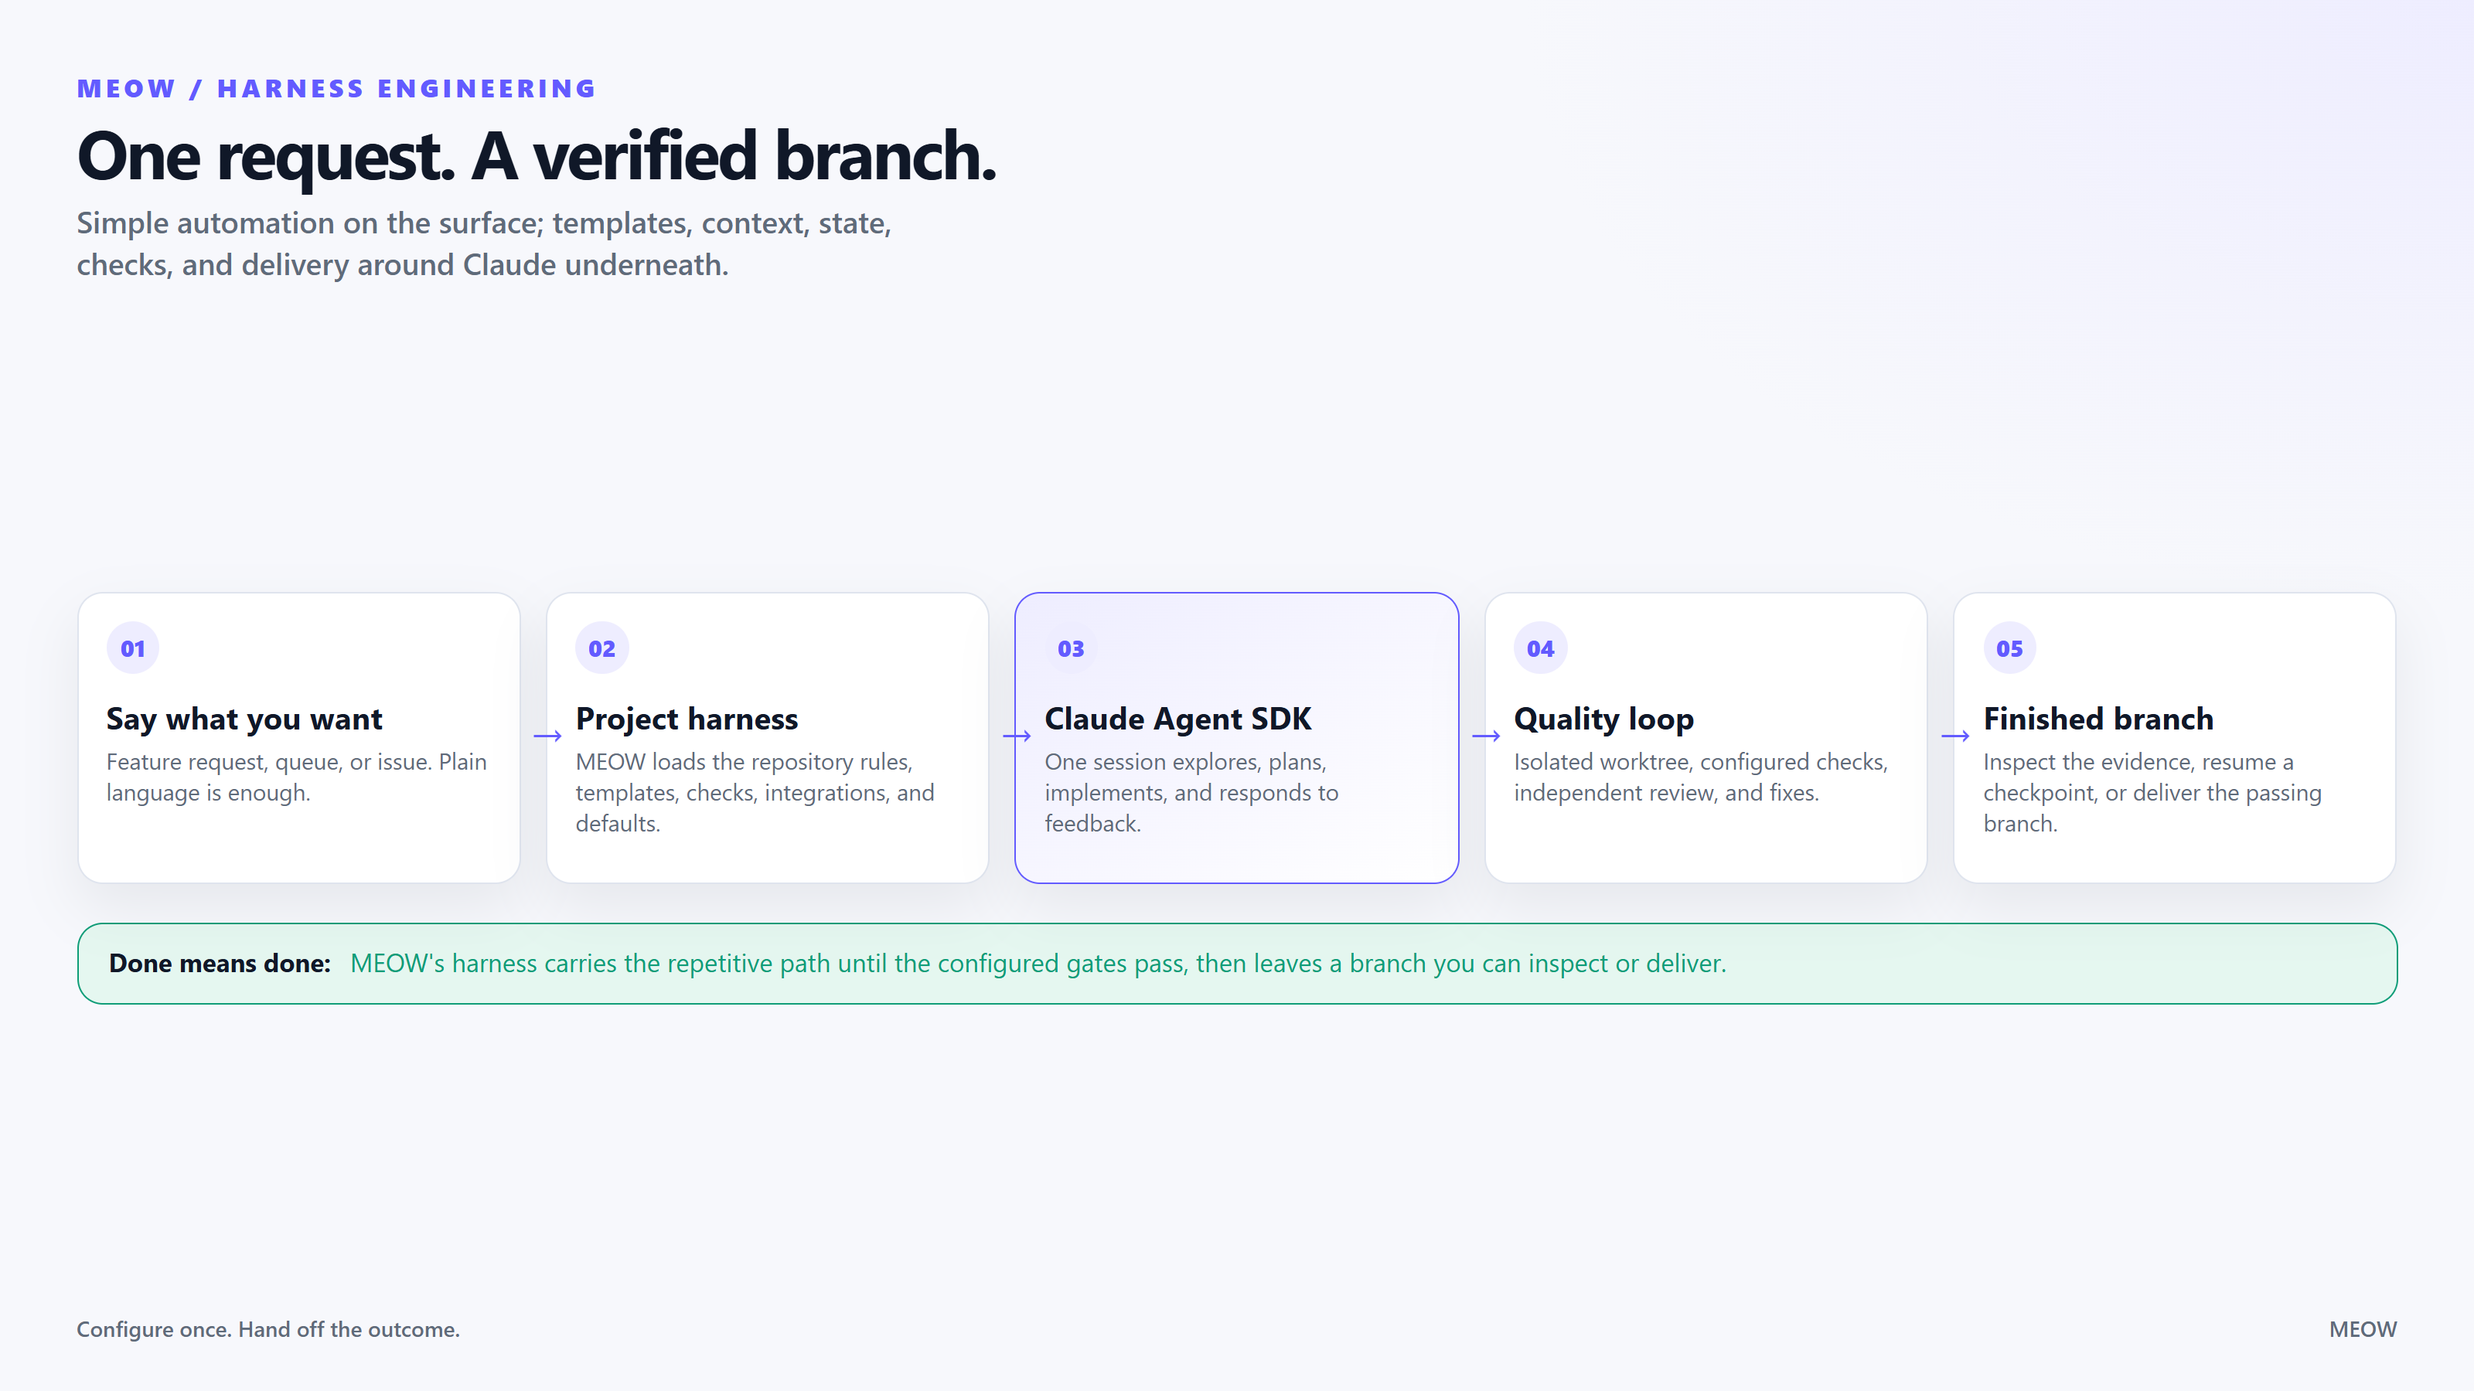
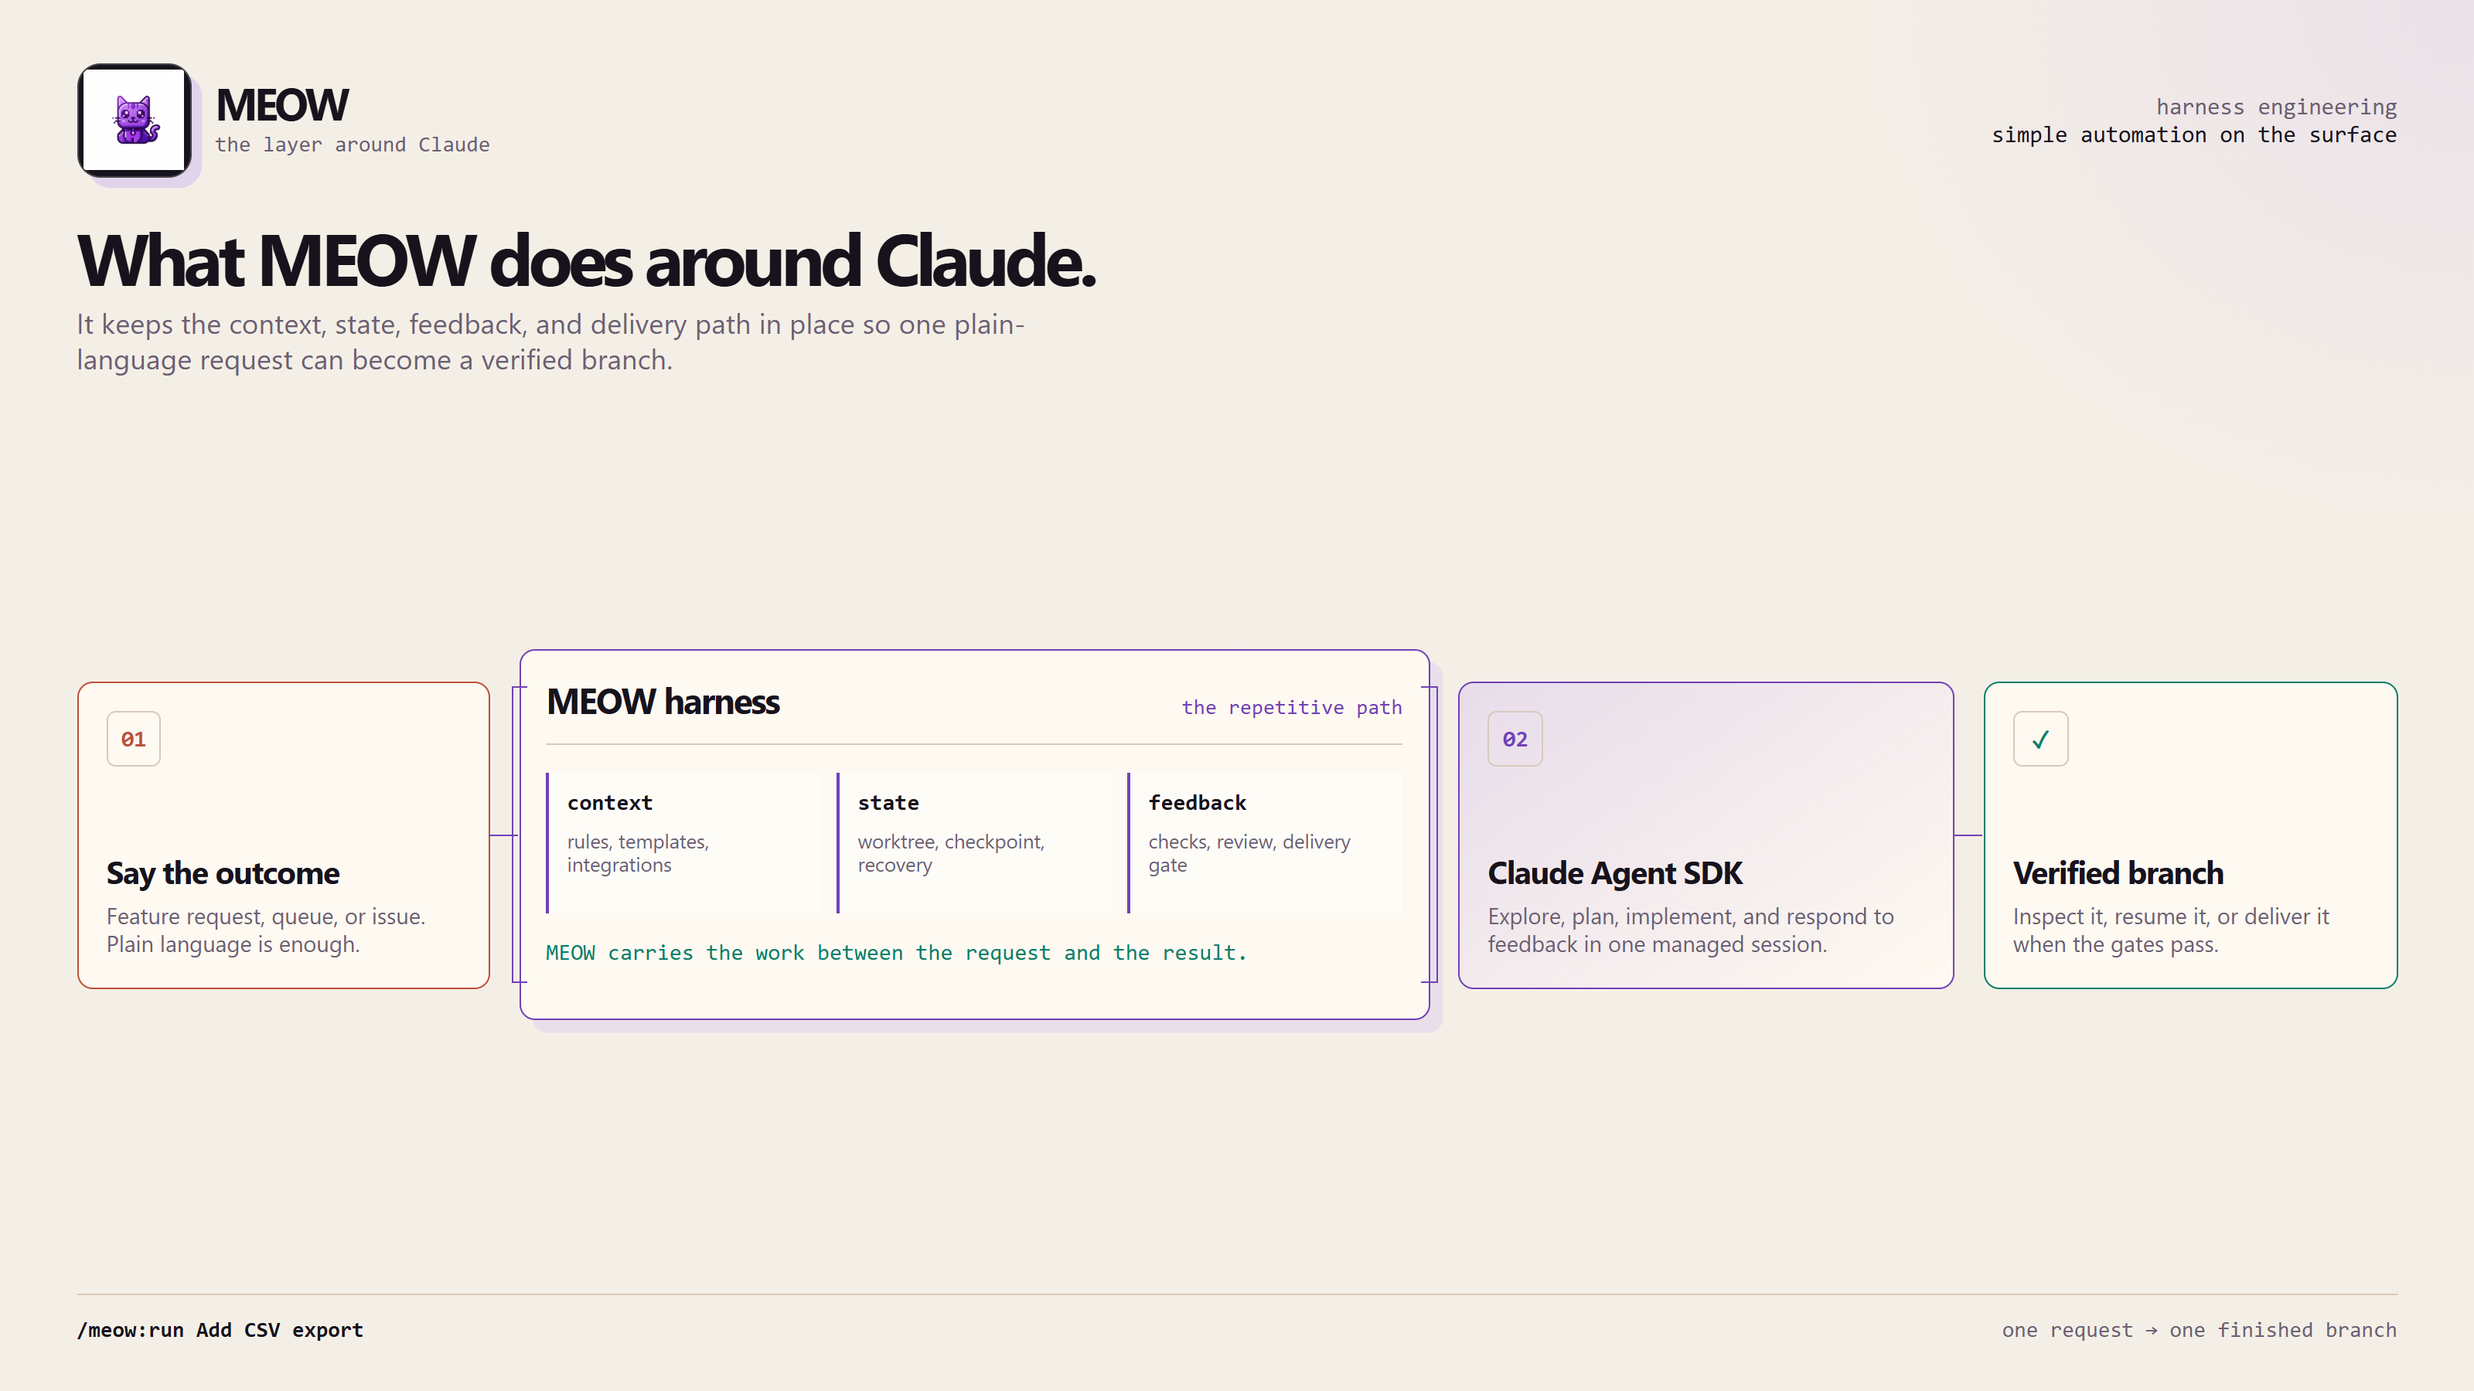
docs: refresh MEOW harness visuals

diff --git a/visualizations/meow-workflow/index.html b/visualizations/meow-workflow/index.html
@@ -5,179 +5,73 @@
   <meta name="viewport" content="width=device-width, initial-scale=1" />
   <title>MEOW harness engineering</title>
   <style>
-    :root {
-      --bg: #f7f8fc;
-      --card: #ffffff;
-      --ink: #101828;
-      --muted: #5f6b7a;
-      --line: #dfe4ee;
-      --accent: #635bff;
-      --accent-soft: #eeedff;
-      --green: #0f9d78;
-      --green-soft: #e5f7f0;
-      --shadow: 0 16px 36px rgba(31, 41, 55, .08);
-    }
-    :root[data-theme="dark"] {
-      --bg: #0b1020;
-      --card: #151d31;
-      --ink: #f2f4fb;
-      --muted: #aab4c7;
-      --line: #2b3853;
-      --accent: #9a93ff;
-      --accent-soft: #28264f;
-      --green: #4fd1a5;
-      --green-soft: #173e38;
-      --shadow: 0 18px 40px rgba(0, 0, 0, .25);
-    }
+    :root { --ink: #111016; --panel: #1c1824; --panel-2: #26202f; --paper: #f4efe6; --muted: #b9afc4; --violet: #b088ff; --mint: #79e0c8; --coral: #ff896f; --line: #463950; }
+    :root[data-theme="light"] { --ink: #f4efe6; --panel: #fffaf1; --panel-2: #eee5d8; --paper: #17131d; --muted: #6b6074; --violet: #7241b7; --mint: #087f6a; --coral: #bd4f3c; --line: #d8cabb; }
     * { box-sizing: border-box; }
     html, body { width: 100%; height: 100%; margin: 0; overflow: hidden; }
-    body {
-      background: var(--bg);
-      color: var(--ink);
-      font-family: ui-sans-serif, system-ui, -apple-system, "Segoe UI", sans-serif;
-      -webkit-font-smoothing: antialiased;
-    }
-    .stage {
-      width: 100vw;
-      height: 100vh;
-      padding: 5cqmin 5.5cqmin 3.5cqmin;
-      display: flex;
-      flex-direction: column;
-      gap: 3cqmin;
-      container-type: size;
-      background: radial-gradient(110cqmin 70cqmin at 100% 0%, var(--accent-soft), transparent 62%), var(--bg);
-    }
-    .eyebrow {
-      color: var(--accent);
-      font-size: 2cqmin;
-      font-weight: 800;
-      letter-spacing: .16em;
-      text-transform: uppercase;
-    }
-    h1 {
-      margin: 1cqmin 0 0;
-      font-size: 5.4cqmin;
-      line-height: 1.02;
-      letter-spacing: -.04em;
-    }
-    .lede {
-      max-width: 70cqmin;
-      margin: 1.2cqmin 0 0;
-      color: var(--muted);
-      font-size: 2.35cqmin;
-      line-height: 1.35;
-      font-weight: 500;
-    }
-    .workflow {
-      min-height: 0;
-      flex: 1;
-      display: flex;
-      flex-direction: column;
-      justify-content: center;
-      gap: 3cqmin;
-    }
-    .flow {
-      display: grid;
-      grid-template-columns: repeat(5, 1fr);
-      align-items: stretch;
-      gap: 2cqmin;
-    }
-    .step {
-      position: relative;
-      min-height: 23cqmin;
-      padding: 2.2cqmin;
-      border: 1px solid var(--line);
-      border-radius: 2cqmin;
-      background: var(--card);
-      box-shadow: var(--shadow);
-    }
-    .step:not(:last-child)::after {
-      content: "→";
-      position: absolute;
-      z-index: 2;
-      right: -2.2cqmin;
-      top: 50%;
-      transform: translate(50%, -58%);
-      color: var(--accent);
-      font-size: 3.2cqmin;
-      font-weight: 800;
-    }
-    .number {
-      display: inline-flex;
-      align-items: center;
-      justify-content: center;
-      width: 4.2cqmin;
-      height: 4.2cqmin;
-      border-radius: 50%;
-      color: var(--accent);
-      background: var(--accent-soft);
-      font-size: 1.8cqmin;
-      font-weight: 800;
-    }
-    .step h2 { margin: 2cqmin 0 1cqmin; font-size: 2.45cqmin; line-height: 1.05; }
-    .step p { margin: 0; color: var(--muted); font-size: 1.8cqmin; line-height: 1.35; }
-    .step.agent { border-color: var(--accent); background: linear-gradient(145deg, var(--accent-soft), var(--card)); }
-    .quality {
-      display: flex;
-      align-items: center;
-      gap: 1.5cqmin;
-      padding: 1.8cqmin 2.4cqmin;
-      border: 1px solid var(--green);
-      border-radius: 2cqmin;
-      color: var(--green);
-      background: var(--green-soft);
-      font-size: 2cqmin;
-      line-height: 1.3;
-    }
-    .quality strong { color: var(--ink); }
-    footer {
-      display: flex;
-      justify-content: space-between;
-      color: var(--muted);
-      font-size: 1.7cqmin;
-      font-weight: 600;
-    }
+    body { color: var(--paper); background: var(--ink); font-family: "Segoe UI", ui-sans-serif, system-ui, sans-serif; -webkit-font-smoothing: antialiased; }
+    .stage { width: 100vw; height: 100vh; padding: 4.5cqmin 5.5cqmin 3.4cqmin; display: flex; flex-direction: column; gap: 3.2cqmin; container-type: size; background: linear-gradient(90deg, transparent 0 49.9%, rgba(255,255,255,.045) 50%, transparent 50.1%), radial-gradient(70cqmin 60cqmin at 100% 0%, rgba(176,136,255,.13), transparent 70%), var(--ink); }
+    .top { display: flex; align-items: center; justify-content: space-between; gap: 4cqmin; }
+    .brand { display: flex; align-items: center; gap: 1.8cqmin; }
+    .logo-frame { width: 9cqmin; height: 9cqmin; padding: .45cqmin; overflow: hidden; border: 1px solid rgba(255,255,255,.2); border-radius: 1.8cqmin; background: var(--paper); box-shadow: .8cqmin .8cqmin 0 rgba(176,136,255,.27); }
+    .logo-frame img { display: block; width: 100%; height: 100%; object-fit: contain; }
+    .brand strong { display: block; color: var(--paper); font-size: 3.5cqmin; line-height: .9; letter-spacing: -.08em; }
+    .brand span { display: block; margin-top: .7cqmin; color: var(--muted); font: 1.7cqmin ui-monospace, SFMono-Regular, Consolas, monospace; }
+    .top-note { color: var(--muted); font: 1.8cqmin ui-monospace, SFMono-Regular, Consolas, monospace; text-align: right; }
+    .top-note span { color: var(--paper); }
+    h1 { margin: 0; color: var(--paper); font-size: 5.7cqmin; line-height: .95; letter-spacing: -.07em; }
+    .lede { max-width: 76cqmin; margin: 1cqmin 0 0; color: var(--muted); font-size: 2.2cqmin; line-height: 1.28; }
+    .pipeline { flex: 1; min-height: 0; display: grid; grid-template-columns: 1fr 2.2fr 1.2fr 1fr; align-items: center; gap: 2.2cqmin; }
+    .node, .harness { position: relative; min-height: 24cqmin; padding: 2.2cqmin; border: 1px solid var(--line); background: rgba(28,24,36,.92); }
+    :root[data-theme="light"] .node, :root[data-theme="light"] .harness { background: rgba(255,250,241,.94); }
+    .node { display: flex; flex-direction: column; justify-content: space-between; border-radius: 1.2cqmin; }
+    .node::after { content: ""; position: absolute; top: 50%; right: -2.2cqmin; width: 2.2cqmin; height: 1px; background: var(--violet); }
+    .node:last-child::after { display: none; }
+    .node-mark { display: inline-grid; place-items: center; width: 4.3cqmin; height: 4.3cqmin; border: 1px solid var(--line); border-radius: .7cqmin; color: var(--violet); font: 700 1.8cqmin ui-monospace, SFMono-Regular, Consolas, monospace; }
+    .node h2 { margin: 3.5cqmin 0 1cqmin; color: var(--paper); font-size: 2.5cqmin; line-height: 1.02; letter-spacing: -.04em; }
+    .node p { margin: 0; color: var(--muted); font-size: 1.75cqmin; line-height: 1.3; }
+    .request { border-color: var(--coral); }
+    .request .node-mark { color: var(--coral); }
+    .sdk { border-color: var(--violet); background: linear-gradient(145deg, rgba(176,136,255,.18), rgba(28,24,36,.92)); }
+    :root[data-theme="light"] .sdk { background: linear-gradient(145deg, rgba(176,136,255,.18), rgba(255,250,241,.94)); }
+    .done { border-color: var(--mint); }
+    .done .node-mark { color: var(--mint); }
+    .harness { min-height: 29cqmin; padding: 2cqmin; border: 1px solid var(--violet); border-radius: 1.2cqmin; background: var(--panel-2); box-shadow: 1cqmin 1cqmin 0 rgba(176,136,255,.16); }
+    .harness::before, .harness::after { position: absolute; top: 2.8cqmin; bottom: 2.8cqmin; width: 1.1cqmin; border-top: 1px solid var(--violet); border-bottom: 1px solid var(--violet); content: ""; }
+    .harness::before { left: -.7cqmin; border-left: 1px solid var(--violet); }
+    .harness::after { right: -.7cqmin; border-right: 1px solid var(--violet); }
+    .harness-head { display: flex; align-items: baseline; justify-content: space-between; gap: 2cqmin; padding-bottom: 1.5cqmin; border-bottom: 1px solid var(--line); }
+    .harness-head strong { color: var(--paper); font-size: 2.8cqmin; letter-spacing: -.05em; }
+    .harness-head span { color: var(--violet); font: 1.65cqmin ui-monospace, SFMono-Regular, Consolas, monospace; }
+    .harness-grid { display: grid; grid-template-columns: repeat(3, 1fr); gap: 1.2cqmin; margin-top: 2.2cqmin; }
+    .harness-item { min-height: 11cqmin; padding: 1.4cqmin; border-left: 2px solid var(--violet); background: rgba(17,16,22,.35); }
+    :root[data-theme="light"] .harness-item { background: rgba(255,255,255,.45); }
+    .harness-item strong { display: block; color: var(--paper); font: 600 1.75cqmin/1.1 ui-monospace, SFMono-Regular, Consolas, monospace; }
+    .harness-item span { display: block; margin-top: 1cqmin; color: var(--muted); font-size: 1.55cqmin; line-height: 1.2; }
+    .harness-note { margin: 2cqmin 0 0; color: var(--mint); font: 1.75cqmin ui-monospace, SFMono-Regular, Consolas, monospace; }
+    .footer { display: flex; align-items: center; justify-content: space-between; padding-top: 1.8cqmin; border-top: 1px solid var(--line); color: var(--muted); font: 1.7cqmin ui-monospace, SFMono-Regular, Consolas, monospace; }
+    .footer strong { color: var(--paper); font-weight: 600; }
+    @media (max-width: 1050px) { .pipeline { grid-template-columns: 1fr 1.8fr 1fr; } .done { grid-column: 2; } .done::after { display: none; } }
   </style>
 </head>
 <body>
-  <div class="stage">
-    <header>
-      <div class="eyebrow">MEOW / HARNESS ENGINEERING</div>
-      <h1>One request. A verified branch.</h1>
-      <p class="lede">Simple automation on the surface; templates, context, state, checks, and delivery around Claude underneath.</p>
+  <main class="stage">
+    <header class="top">
+      <div class="brand"><div class="logo-frame"><img src="../../logo.jfif" alt="MEOW pixel cat logo" /></div><div><strong>MEOW</strong><span>the layer around Claude</span></div></div>
+      <div class="top-note">harness engineering<br /><span>simple automation on the surface</span></div>
     </header>
-    <main class="workflow">
-      <div class="flow" aria-label="MEOW workflow from request to verified branch">
-        <section class="step">
-          <div class="number">01</div>
-          <h2>Say what you want</h2>
-          <p>Feature request, queue, or issue. Plain language is enough.</p>
-        </section>
-        <section class="step">
-          <div class="number">02</div>
-          <h2>Project harness</h2>
-          <p>MEOW loads the repository rules, templates, checks, integrations, and defaults.</p>
-        </section>
-        <section class="step agent">
-          <div class="number">03</div>
-          <h2>Claude Agent SDK</h2>
-          <p>One session explores, plans, implements, and responds to feedback.</p>
-        </section>
-        <section class="step">
-          <div class="number">04</div>
-          <h2>Quality loop</h2>
-          <p>Isolated worktree, configured checks, independent review, and fixes.</p>
-        </section>
-        <section class="step">
-          <div class="number">05</div>
-          <h2>Finished branch</h2>
-          <p>Inspect the evidence, resume a checkpoint, or deliver the passing branch.</p>
-        </section>
-      </div>
-      <div class="quality"><strong>Done means done:</strong> MEOW's harness carries the repetitive path until the configured gates pass, then leaves a branch you can inspect or deliver.</div>
+    <section>
+      <h1>What MEOW does around Claude.</h1>
+      <p class="lede">It keeps the context, state, feedback, and delivery path in place so one plain-language request can become a verified branch.</p>
+    </section>
+    <main class="pipeline" aria-label="MEOW harness engineering pipeline">
+      <section class="node request"><div class="node-mark">01</div><div><h2>Say the outcome</h2><p>Feature request, queue, or issue. Plain language is enough.</p></div></section>
+      <section class="harness"><div class="harness-head"><strong>MEOW harness</strong><span>the repetitive path</span></div><div class="harness-grid"><div class="harness-item"><strong>context</strong><span>rules, templates, integrations</span></div><div class="harness-item"><strong>state</strong><span>worktree, checkpoint, recovery</span></div><div class="harness-item"><strong>feedback</strong><span>checks, review, delivery gate</span></div></div><p class="harness-note">MEOW carries the work between the request and the result.</p></section>
+      <section class="node sdk"><div class="node-mark">02</div><div><h2>Claude Agent SDK</h2><p>Explore, plan, implement, and respond to feedback in one managed session.</p></div></section>
+      <section class="node done"><div class="node-mark">✓</div><div><h2>Verified branch</h2><p>Inspect it, resume it, or deliver it when the gates pass.</p></div></section>
     </main>
-    <footer><span>Configure once. Hand off the outcome.</span><span>MEOW</span></footer>
-  </div>
+    <footer class="footer"><span><strong>/meow:run Add CSV export</strong></span><span>one request → one finished branch</span></footer>
+  </main>
   <script>
     const theme = new URLSearchParams(location.search).get("theme");
     if (theme === "dark" || theme === "light") document.documentElement.dataset.theme = theme;
